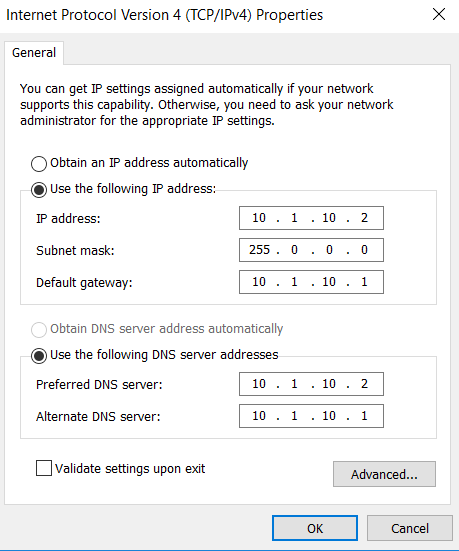
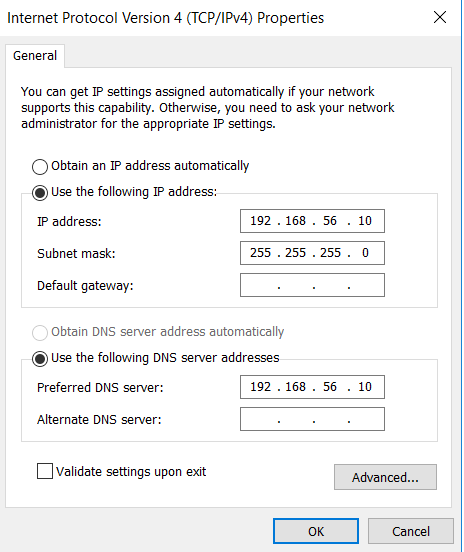
Updated setup-and-installation lab and completed domain-integration-&-rsat-administration

diff --git a/04-domain-integration-&-rsat-administration/notes.md b/04-domain-integration-&-rsat-administration/notes.md
@@ -62,13 +62,13 @@
 4. Sign out of user account(local) and Log in as Administrator account
 
 5. To remove local account, navigate to file explorer -> right-click "This PC" -> "Manage" -> "Local User and Groups" -> Users -> right-click on Local Account (User) -> "Delete"
-pic
+![Windows Basic Setup](./screenshots/basic-setup-8.png)
 
-## Windows RSAT Installation (Server Manager)
+## Windows RSAT Installation (Server Manager) and Renaming Computer
 Note: As a helpdesk/IT support, RSAT tools like server manager may not be given due to advanced access
 
-1. Navigate to "add or remove programs" -> "Optional features" -> "Add a feature"
-pic
+1. Navigate to "System" -> Optional features(On Left Panel) -> select "Add a feature"
+![RSAT Installation](./screenshots/rsat-installation.png)
 
 2. Select the following RSAT Tools: 
 - Active Directory Certificate Services Tools
@@ -78,4 +78,29 @@ pic
 - Group Policy Management Tools
 - Remote Desktop Services Tools
 - Server Manager
-pic
+![RSAT Installation](./screenshots/rsat-installation-2.png)
+
+3. To rename Windows Computer, navigate to file explorer -> right-click "This PC" -> Properties -> "Rename This PC"
+![RSAT Installation](./screenshots/rsat-installation-3.png)
+
+## Installing TeamViewer to Windows VM
+
+1. In Windows VM,
+- Navigate to TeamViewer download website and download TeamViewer for Windows
+- Install default setup for TeamViewer
+![TeamViewer Installation](./screenshots/teamviewer-install.png)
+
+## Add Computer to Domain (Connect Windows Client to Windows Server)
+
+1. To create a static IP address, navigate to Control Panel -> select "Network and Internet: View network status and tasks" -> "change adapter settings" -> "Ethernet" -> "Properties" -> select "TCP/IPV4"
+
+2. In TCP/IPV4 properties,
+- select "use the following IP address"
+- Fill in the following IP address and DNS server address credentials
+![Domain Integration](./screenshots/domain-integration.png)
+
+3. Navigate to Devices (Top Panel) -> Network -> Network Settings -> Change Network Adapter to "Host-only Adapter" (This should be done for both Windows VM and Windows Server VM)
+![Domain Integration](./screenshots/domain-integration-2.png)
+
+4. Navigate to File explorer -> right-click "This PC" -> Properties -> "Rename This PC (advanced)" -> Change -> Select "domain", add domain name and enter admin credentials
+![Domain Integration](./screenshots/domain-integration-3.png)

diff --git a/01-setup-and-installation/notes.md b/01-setup-and-installation/notes.md
@@ -39,7 +39,7 @@
 3. Log in to Administrator Account
 ![Installation-Setup](./screenshots/setup-install-8.png)
 
-### Create Static IP address for Lab Environment
+### Create Static IP address (To use Later to join client to this domain)
 
 1. Navigate to Command Prompt(CMD) as Administrator
 ![Static IP Setup](./screenshots/static-ip-setup.png)
